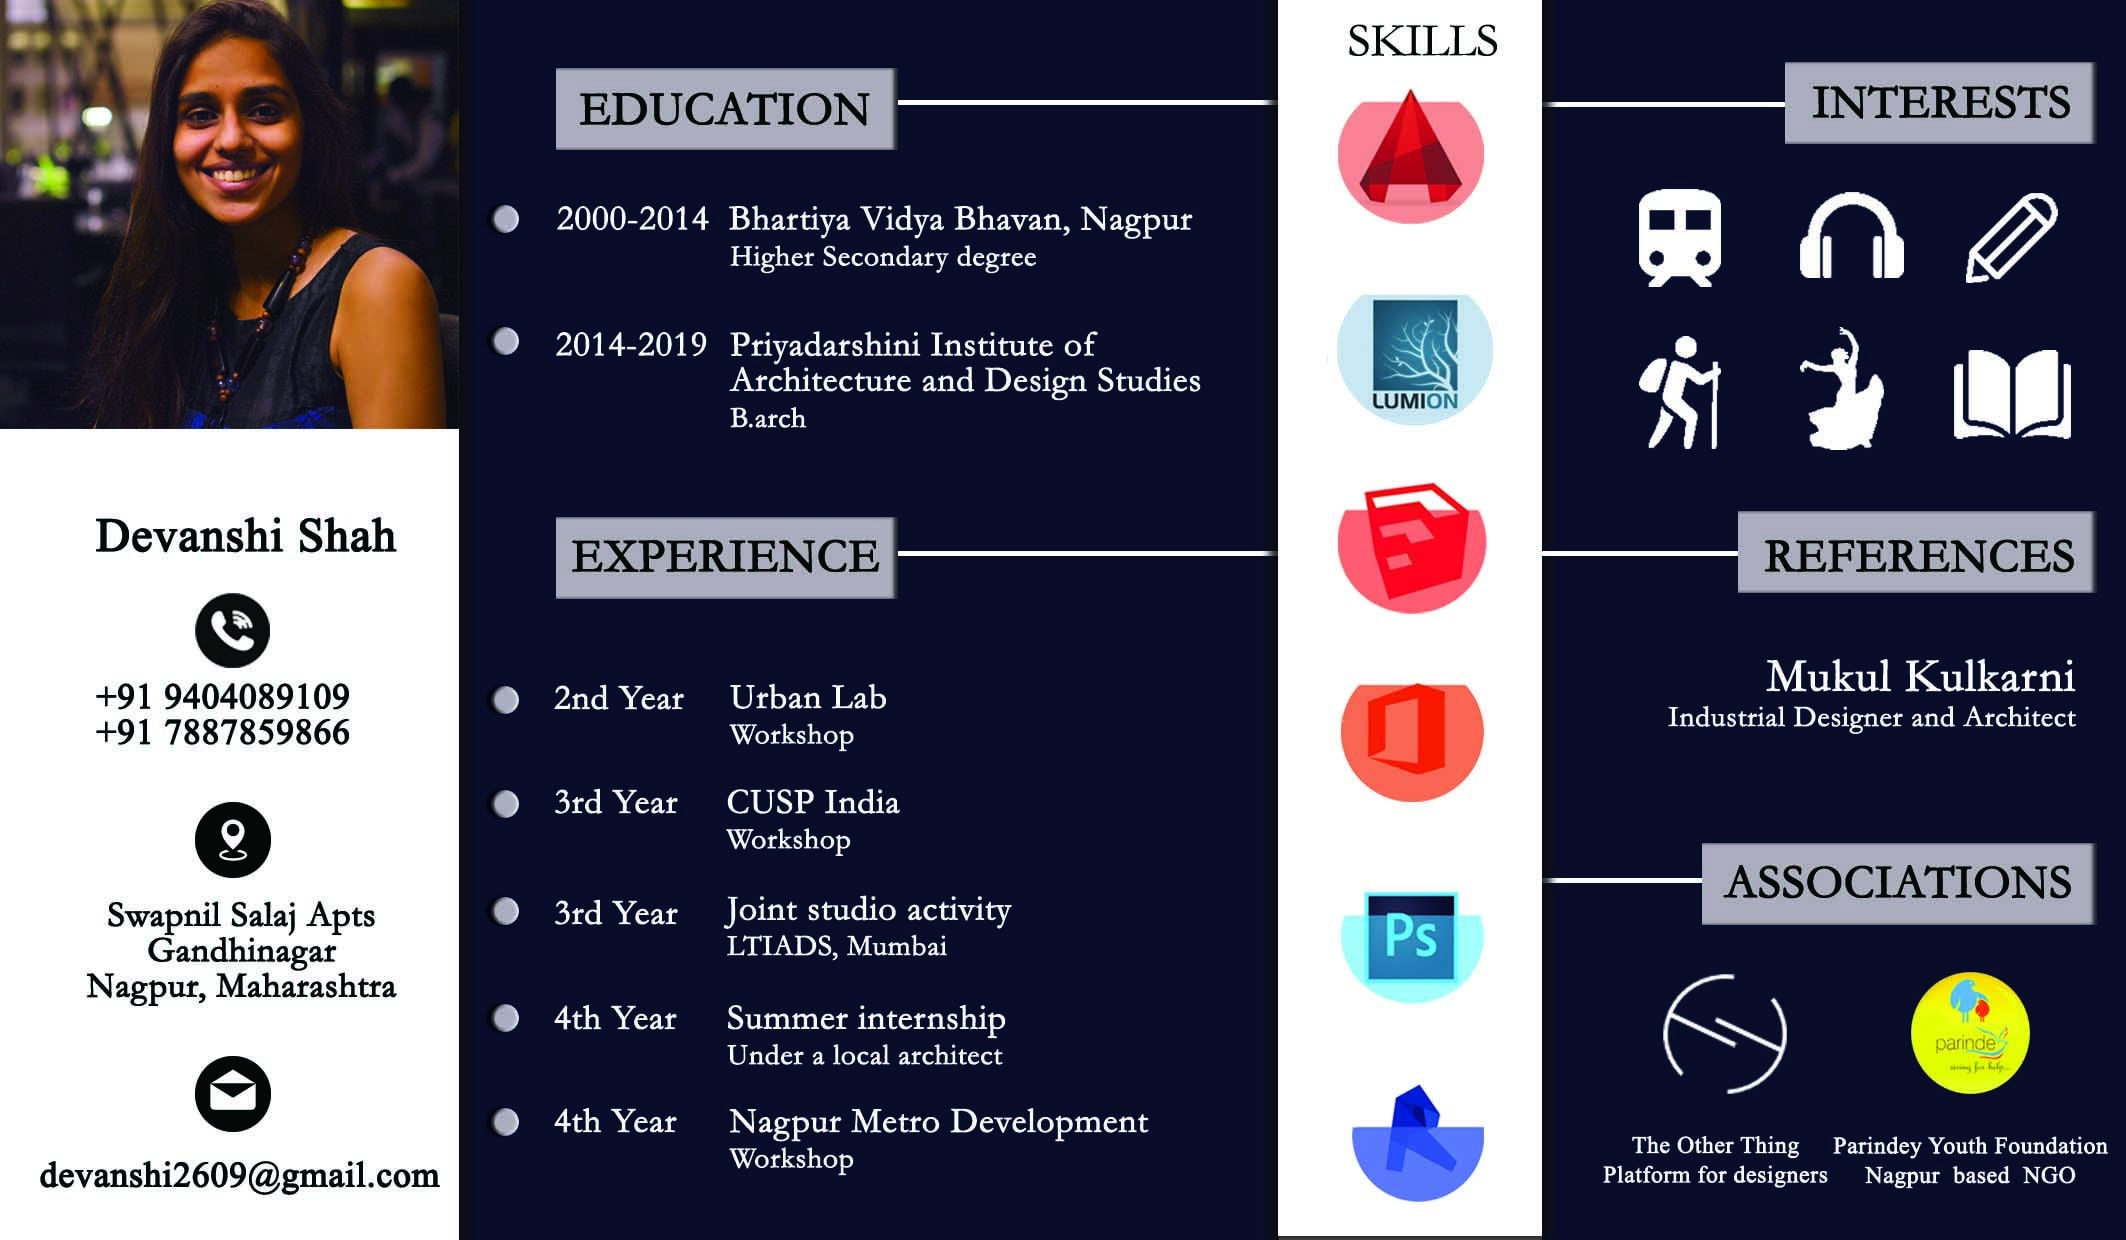
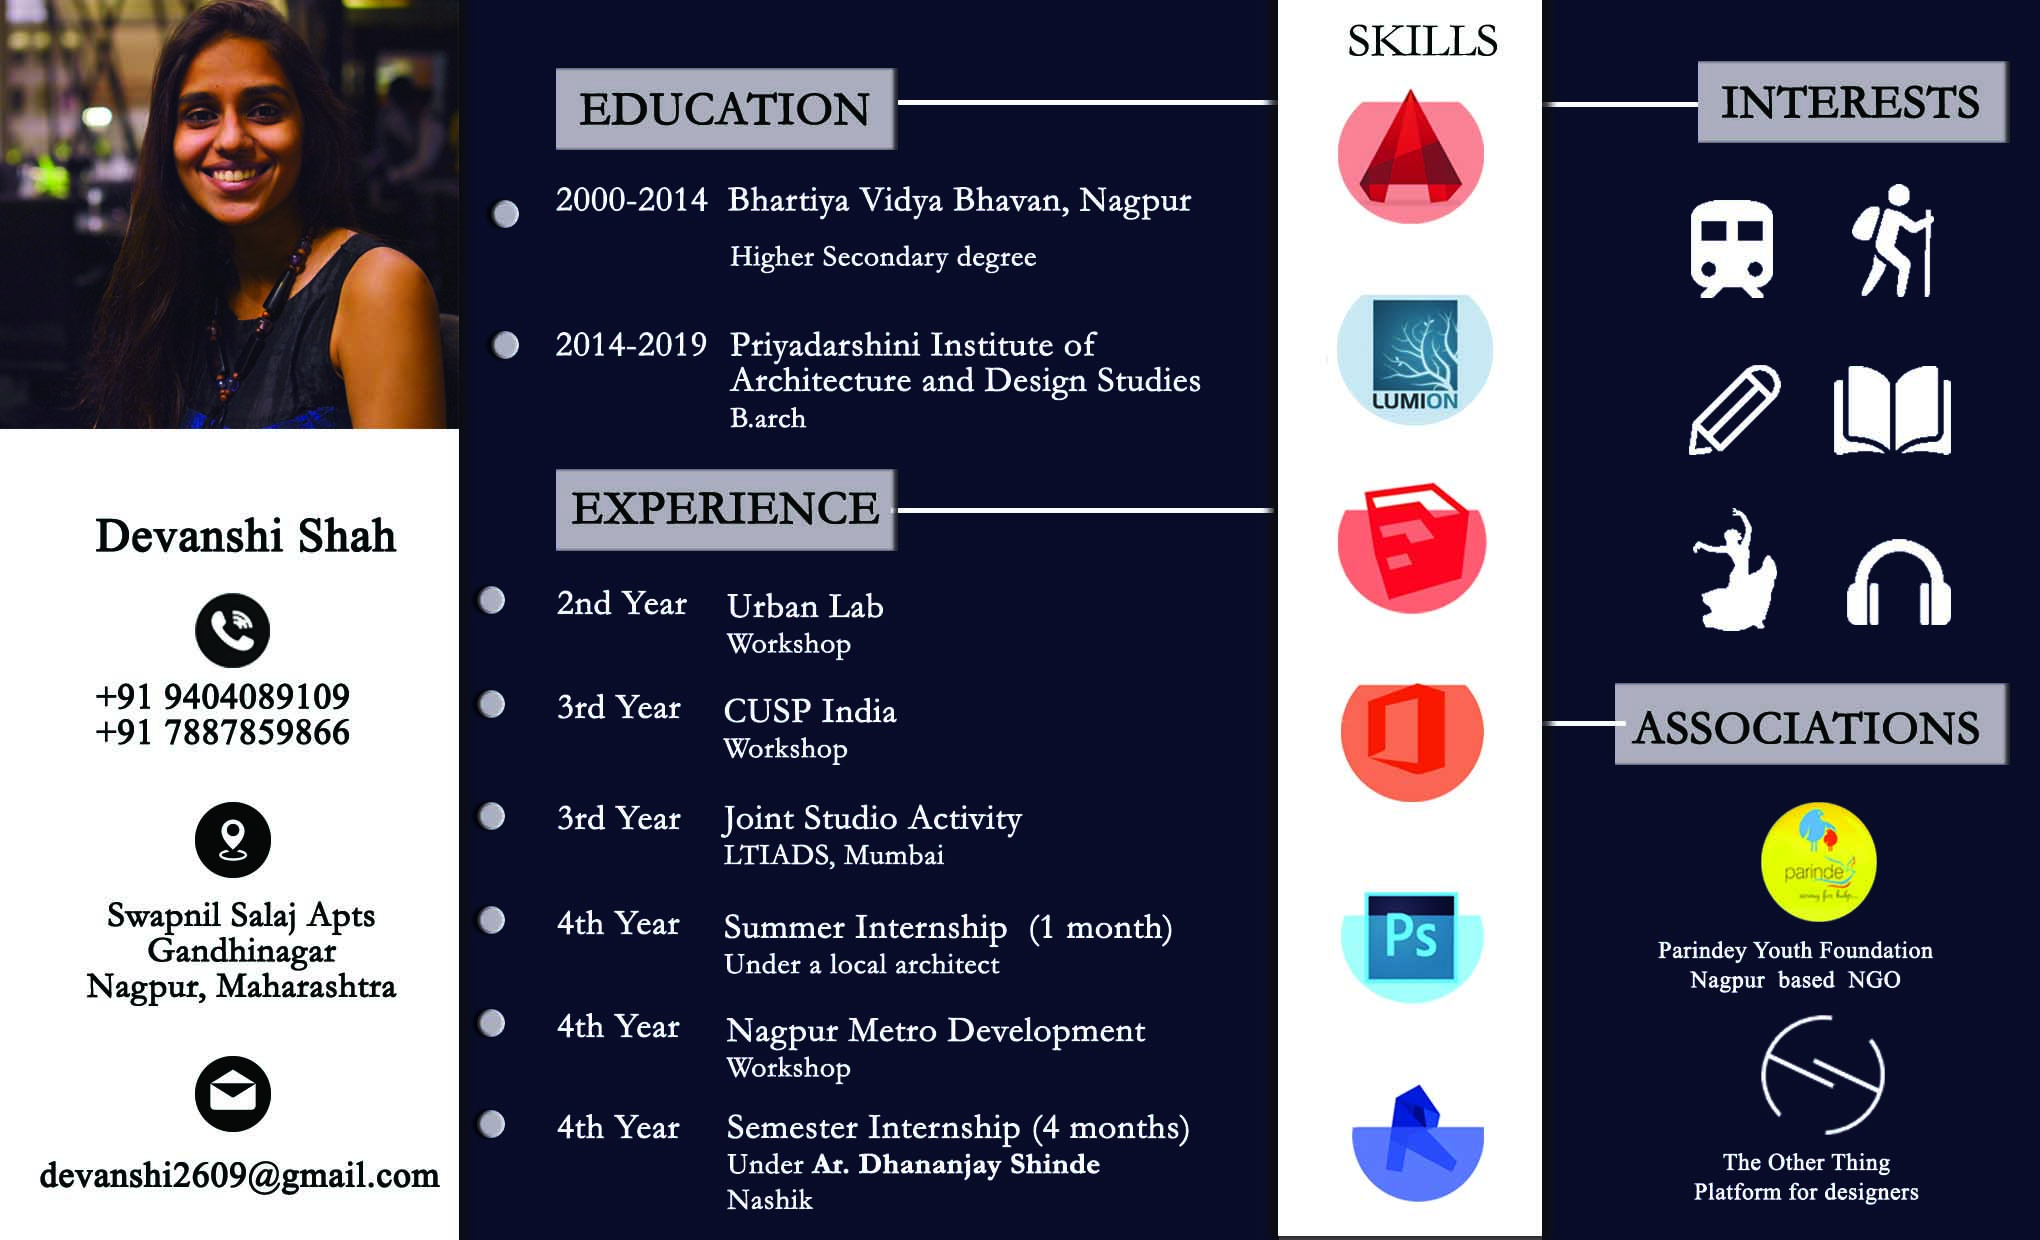
cv changed, intership added

Changed region(s): [[0.0309, 0.0, 0.9882, 1.0], [0.0309, 0.6435, 0.1853, 0.8274], [0.8338, 0.0306, 0.9882, 0.1226]]

diff --git a/index.html b/index.html
@@ -531,9 +531,8 @@
 				</figure> -->
 				<p>After crossing all these destinations I finally enter the final stage with an objective to apply my skills
 				acquired as a student and broaden my horizon as a future architect.</p>
-				<p>With soul aim to experience the professional life and gain practical knowledge I would like to join
-				your esteemed firm for an internship course starting from January.</p>
-				<button class="btn btn-primary cv" onclick="showModal('img/cv.jpg')" alt="myCV">Download CV</button>
+				<p>With an experience of 4 months professional training with <strong>Ar. Dhananjay Shinde, Nashik</strong>, I would like to join your esteemed firm for an internship course starting from <strong>June, 2018</strong></p>
+				<button class="btn btn-primary cv" onclick="showModal('img/cv.jpg')" alt="myCV">View CV</button>
 			</section>
 
 			<section class="js-section" data-stay="true" data-zoom-start="0.8"></section>
